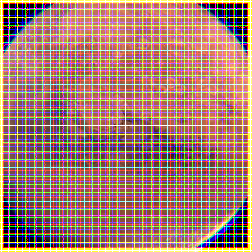
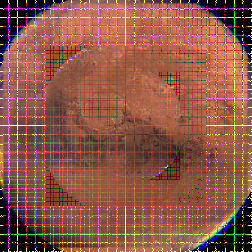
Se arregla la distancia imagen

diff --git a/index.py b/index.py
@@ -28,8 +28,10 @@ f1 = df.loc['objective','mainSystem']['f']
 f2 = df.loc['eyespace','mainSystem']['f']
 
 si1 = (f1*so)/(so-f1)
-so2 = si1-(f1-f2)
-si2 = (f2*si1)/(si1-f2)
+so2 = -(si1-(f1+f2))
+si2 = (f2*so2)/(so2-f2)
+
+print(si2)
 
 Mt = (-si1/so)*(si2/so2)
 
@@ -48,7 +50,7 @@ pixels = image.load()
 interpolate = False
 
 #Compute the image with chief ray
-#pixels = ray_tracing(width, height, CHIEF_RAY, so, n1, obj, res, nl, R1, R2, dl, pixels, width_output, height_output, si2, Mt)
+pixels = ray_tracing(width, height, CHIEF_RAY, so, n1, obj, res, nl, R1, R2, dl, pixels, width_output, height_output, si2, Mt)
 
 #Compute the cummulated image with parallel ray
 pixels = ray_tracing(width, height, PARALLEL_RAY, so, n1, obj, res, nl, R1, R2, dl, pixels, width_output, height_output, si2, Mt)

diff --git a/functions.py b/functions.py
@@ -75,7 +75,7 @@ def ray_tracing(width, height, rayo, so, n1, obj, res, nl, R1, R2, dl, pixels, w
             P1 = np.array([[[1, 1, 1], [so/n1, so/n1, so/n1]],[[0, 0, 0], [1, 1, 1]]])
 
             if rayo == 0: #principal
-                alpha_entrada = math.atan(y_objeto/so) #This ray enters towards the center of the lens
+                alpha_entrada = -math.atan(y_objeto/so) #This ray enters towards the center of the lens
             elif rayo == 1: #parallel
                 alpha_entrada = 0 #This ray enters parallel to the optical axis
             V_entrada = np.array([[y_objeto, y_objeto, y_objeto], [n1*alpha_entrada, n1*alpha_entrada, n1*alpha_entrada]])

diff --git a/test.py b/test.py
@@ -1,7 +1,7 @@
 import numpy as np
 import math
 
-y_objeto = 80
+"""y_objeto = 80
 n1 = 1
 alpha_entrada = 0.060532
 si = -9.93334
@@ -20,4 +20,12 @@ res2 = np.einsum('ikj,kj->ij', A, res)
 res3 = np.einsum('ikj,kj->ij', P2, res2)
 
 sol = np.einsum('ba, ced, fhg, ikj->ij', V_entrada, P1, A, P2)
-print(sol)
+print(sol)"""
+so = 1324.817172
+f1 = 700
+f2 = -10
+si1 = (f1*so)/(so-f1)
+so2 = si1-(f1+f2)
+si2 = (f2*si1)/(si1-f2)
+
+print(si2)
